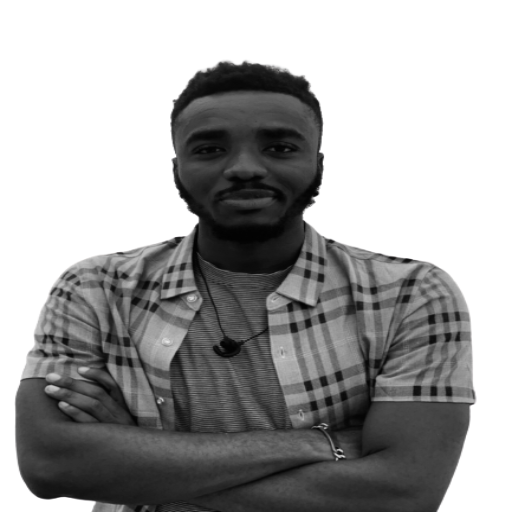
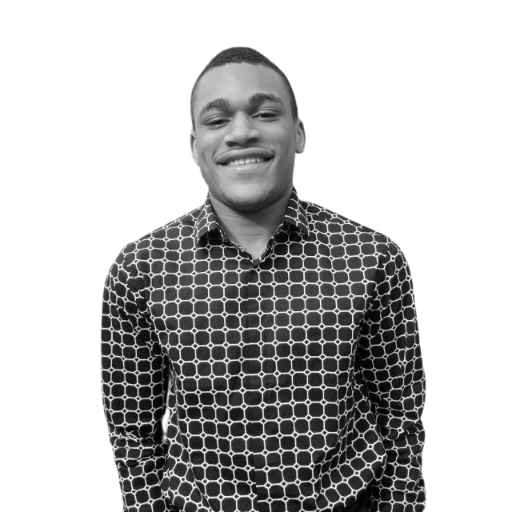
updated to fit my profile

diff --git a/src/appData.js b/src/appData.js
@@ -1,5 +1,5 @@
-import { FiGithub, FiTwitter, FiSmartphone, FiGlobe } from 'react-icons/fi';
-import { RiLinkedinLine, RiMailSendLine } from 'react-icons/ri';
+import { FiGithub, FiSmartphone, FiGlobe } from 'react-icons/fi';
+import { RiMailSendLine } from 'react-icons/ri';
 import { HiMenuAlt3, HiOutlineMail } from 'react-icons/hi';
 
 import { IoClose } from 'react-icons/io5';
@@ -11,8 +11,8 @@ import Zuri from './assets/zuri.jpg';
 import i4g from './assets/i4g.jpg';
 
 export const appData = {
-  name: 'Michael Nwankwo',
-  description: 'Frontend Developer',
+  name: 'Utibeabasi Umanah',
+  description: 'DevOps Engineer',
   image: Profile,
   Pattern: Pattern,
   MenuIcon: HiMenuAlt3,
@@ -22,42 +22,29 @@ export const appData = {
 
 export const about = {
   title: 'Profile',
-  text: 'Michael is a Frontend Developer with 4 years of experience building Web and Mobile Applications. He is passionate about building modern and accessible user interfaces that delights users',
+  text: 'Utibeabasi Umanah is a DevOps engineer and Fullstack developer with over 2 years of experience. He is passionate about integrating devops culture to automate the developer workflow',
 };
 
 export const experience = {
   title: 'Experience',
   data: [
     {
-      title: 'Frontend Developer',
-      company: 'ChekkitApp Technologies Corp',
+      title: 'DevOps Engineer',
+      company: 'HNGi8 Internship',
       year: '2021',
       duties: [
-        'Document the companies software architecture',
-        'Build and maintain the companies mobile app',
-        'Build and maintain the companies frontend web application',
+        'Configure and manage servers',
+        'Build and maintain CI/CD pipelines for teams',
       ],
     },
     {
-      title: 'Frontend Developer',
-      company: 'PayedIn Technologies Limited',
+      title: 'Backend Developer',
+      company: 'Zuri Internship',
       year: '2021',
       duties: [
-        'Document the companies software architecture',
-        'Build and maintain the companies mobile app',
-        'Build and maintain the companies frontend web application',
+        'Help build the backend of a fitness website',
       ],
-    },
-    {
-      title: 'Mobile Developer',
-      company: 'Innovation Growth Hub',
-      year: '2019',
-      duties: [
-        'Created custom mobile applications using native technologies',
-        'Collaborated with project managers to assess progress of each task',
-        'Reported status to clients to maintain open communication and promote satisfaction',
-      ],
-    },
+    }
   ],
 };
 
@@ -65,34 +52,10 @@ export const projects = {
   title: 'Personal Projects',
   data: [
     {
-      title: 'Survey Ninja',
-      description: 'Web app to collect survey responses',
-      url: 'https://survey-ninja.vercel.app',
-      stack: ['React', 'Node', 'Express', 'MongoDB'],
-    },
-    {
-      title: 'Foddi',
-      description: "An imaginary foddie's page",
-      url: 'https://foddi-page.vercel.app',
-      stack: ['Next'],
-    },
-    {
-      title: 'Posty',
-      description: 'Web app built to simulate a multi-user blogging platform',
-      url: 'https://post-app-mu.vercel.app',
-      stack: ['React', 'Node', 'Express', 'MongoDB'],
-    },
-    {
-      title: 'Qui Zap',
-      description: 'Web app built to simulate a quiz application',
-      url: 'https://qui-zap.vercel.app/',
-      stack: ['React', 'Node', 'Express'],
-    },
-    {
-      title: 'Shopper',
-      description: 'A reactive shopping cart',
-      url: 'https://shopper-sand.vercel.app/',
-      stack: ['React'],
+      title: 'Online store',
+      description: 'Online store built with django',
+      url: 'https://utibestore.herokuapp.com',
+      stack: ['django', 'Postgres'],
     },
   ],
 };
@@ -104,30 +67,30 @@ export const contact = {
   details: [
     {
       icon: FiSmartphone,
-      data: 'tel:+2347035667688',
+      data: 'tel:+2349030809169',
     },
     {
       icon: HiOutlineMail,
-      data: 'mailto:mikhaelnwankwo@gmail.com',
+      data: 'mailto:utibeabasiumanah6@gmail.com',
     },
     {
       icon: FiGlobe,
-      data: 'https://www.mikhael.xyz',
+      data: 'https://www.utibeumanah.xyz',
     },
   ],
   socials: [
     {
-      url: 'https://github.com/00mikhael',
+      url: 'https://github.com/utibeabasi6',
       icon: FiGithub,
     },
-    {
-      url: 'https://linkedin.com/in/mikhaelnwankwo',
-      icon: RiLinkedinLine,
-    },
-    {
-      url: 'https://twitter.com/00mikhael',
-      icon: FiTwitter,
-    },
+    // {
+    //   url: 'https://linkedin.com/in/mikhaelnwankwo',
+    //   icon: RiLinkedinLine,
+    // },
+    // {
+    //   url: 'https://twitter.com/00mikhael',
+    //   icon: FiTwitter,
+    // },
   ],
 };
 
@@ -135,14 +98,14 @@ export const education = {
   title: 'Education',
   data: [
     {
-      degree: 'B.Sc Industrial Chemistry',
-      school: 'Abia State University',
-      year: '2011 - 2015',
+      degree: 'B.Sc Computer engineering',
+      school: 'University of Uyo',
+      year: '2021 - Present',
     },
     {
       degree: 'SSCE',
-      school: 'Bishop Nwedo Memorial Boys High',
-      year: '2006 - 2011',
+      school: 'Bright Future College',
+      year: '2014 - 2020',
     },
   ],
 };
@@ -151,16 +114,36 @@ export const skills = {
   title: 'Skills',
   data: [
     {
-      title: 'Professional',
-      data: ['Git', 'Html', 'Css', 'Javascript', 'Java', 'ReactJS', 'VueJS', 'NodeJS', 'ExpressJs', 'MongoDB'],
+      title: 'IAAC/Configuration management',
+      data: ['Terraform', 'Pulumi', 'AWS CloudFormation', 'Ansible'],
     },
     {
-      title: 'Soft',
-      data: ['Clear verbal and written communication', 'Empathy', 'Critical reasoning', 'Technical reasoning', 'Team player'],
+      title: 'Cloud',
+      data: ['AWS', 'Heroku'],
+    },
+    {
+      title: 'Linux',
+      data: ['Python', 'Bash scripting', 'Automation', 'Linux administration'],
+    },
+    {
+      title: 'CI/CD',
+      data: ['Git', 'Github actions', 'AWS CodePipeline', 'Jenkins'],
+    },
+    {
+      title: 'Containerization/Orchestration',
+      data: ['Docker', 'Docker compose', 'AWS ECS', 'Kubernetes'],
+    },
+    {
+      title: 'Monitoring',
+      data: ['Prometheus/Grafana', 'Freshping', 'ELK'],
+    },
+    {
+      title: 'Fullstack development',
+      data: ['Python', 'Javascript', 'HTML/CSS', 'Golang', 'Dart'],
     },
   ],
 };
 
 export const footer = {
-  copyright: ' 2021 Michael Nwankwo',
+  copyright: ' 2021 Utibeabasi Umanahß',
 };

diff --git a/public/index.html b/public/index.html
@@ -5,7 +5,7 @@
     <link rel="icon" href="%PUBLIC_URL%/favicon.ico" />
     <meta name="viewport" content="width=device-width, initial-scale=1" />
     <meta name="theme-color" content="#EA3A60" />
-    <meta name="description" content="Frontend Developer" />
+    <meta name="description" content="DevOps Engineer" />
     <link href="https://fonts.googleapis.com/css2?family=Poppins:wght@400;600;700;800&display=swap" rel="stylesheet" />
     <link rel="apple-touch-icon" href="%PUBLIC_URL%/favicon.ico" />
     <!--
@@ -22,7 +22,7 @@
       work correctly both with client-side routing and a non-root public URL.
       Learn how to configure a non-root public URL by running `npm run build`.
     -->
-    <title>Michael | Frontend Developer</title>
+    <title>Utibeabasi | DevOps Engineer</title>
   </head>
   <body>
     <noscript>You need to enable JavaScript to run this app.</noscript>

diff --git a/src/components/sections/Header.jsx b/src/components/sections/Header.jsx
@@ -9,11 +9,11 @@ const Header = ({ toggleDrawer }) => {
   return (
     <div style={{ backgroundColor: '#f8e4d4', borderRadius: '0 0 24px 0', height: '296px' }} className={`flex flex-col justify-between lg:justify-end w-full`}>
       <Container className={`w-full flex justify-between lg:justify-start`}>
-        <div className={`flex items-center space-x-4`}>
-          {/* {data.logos.map((logo, idx) => {
+        {/* <div className={`flex items-center space-x-4`}>
+          {data.logos.map((logo, idx) => {
             return <img className={`rounded-full`} width={50} key={idx} src={logo} alt='logo' />;
-          })} */}
-        </div>
+          })}
+        </div> */}
         <data.MenuIcon className={`lg:hidden  text-gray-800 cursor-pointer`} onClick={toggleDrawer} size={24} />
       </Container>
       <Container className={`flex items-center w-full mb-12`}>

diff --git a/src/App.jsx b/src/App.jsx
@@ -11,6 +11,8 @@ import Footer from './components/sections/Footer';
 import About from './components/sections/About';
 import Experience from './components/sections/Experience';
 import Projects from './components/sections/Projects';
+import Skills from './components/sections/Skills';
+
 
 function App() {
   const [drawerOpen, setDrawerOpen] = React.useState(false);
@@ -32,6 +34,7 @@ function App() {
               <About />
               <Experience />
               <Projects />
+          <Skills />
             </FadeIn>
           </div>
           <Footer />

diff --git a/src/components/sections/Aside.jsx b/src/components/sections/Aside.jsx
@@ -5,7 +5,6 @@ import { contact as data } from '../../appData';
 import ProfileImage from './ProfileImage';
 import Contact from './Contact';
 import Education from './Education';
-import Skills from './Skills';
 
 const Aside = ({ className }) => {
   return (
@@ -15,7 +14,6 @@ const Aside = ({ className }) => {
         <FadeIn>
           <Contact />
           <Education />
-          <Skills />
         </FadeIn>
       </div>
       <div className={`flex items-center justify-evenly pb-8 `}>

diff --git a/src/components/sections/ProfileImage.jsx b/src/components/sections/ProfileImage.jsx
@@ -5,7 +5,7 @@ import { appData as data } from '../../appData';
 const ProfileImage = () => {
   return (
     <div style={{ backgroundColor: '#bcbcbc' }} className={`h-96 w-full overflow-hidden bg`}>
-      <img className={`object-cover w-full h-full mx-auto`} src={data.image} alt='Michael Nwankwo' />
+      <img className={`object-cover w-full h-full mx-auto`} src={data.image} alt='Utibeabasi Umanah' />
     </div>
   );
 };

diff --git a/src/components/sections/Skills.jsx b/src/components/sections/Skills.jsx
@@ -11,7 +11,7 @@ const Skills = () => {
   return (
     <Container className={`mb-12`}>
       <SectionHeading className={`uppercase`} title={data.title} />
-      <div className={`space-y-12 mt-6`}>
+      <div className={`space-y-12 mt-6 skills`}>
         {data.data.map((item, idx) => {
           return <Item key={idx} item={item} />;
         })}

diff --git a/src/index.css b/src/index.css
@@ -58,3 +58,15 @@ body {
   background-attachment: fixed;
   background-position: center;
 }
+
+.skills{
+  display: grid;
+  grid-template-columns: repeat(2, 1fr);
+}
+
+@media screen and (max-width: 900px) {
+  .skills{
+    display: grid;
+    grid-template-columns: repeat(1, 1fr);
+  }
+}
